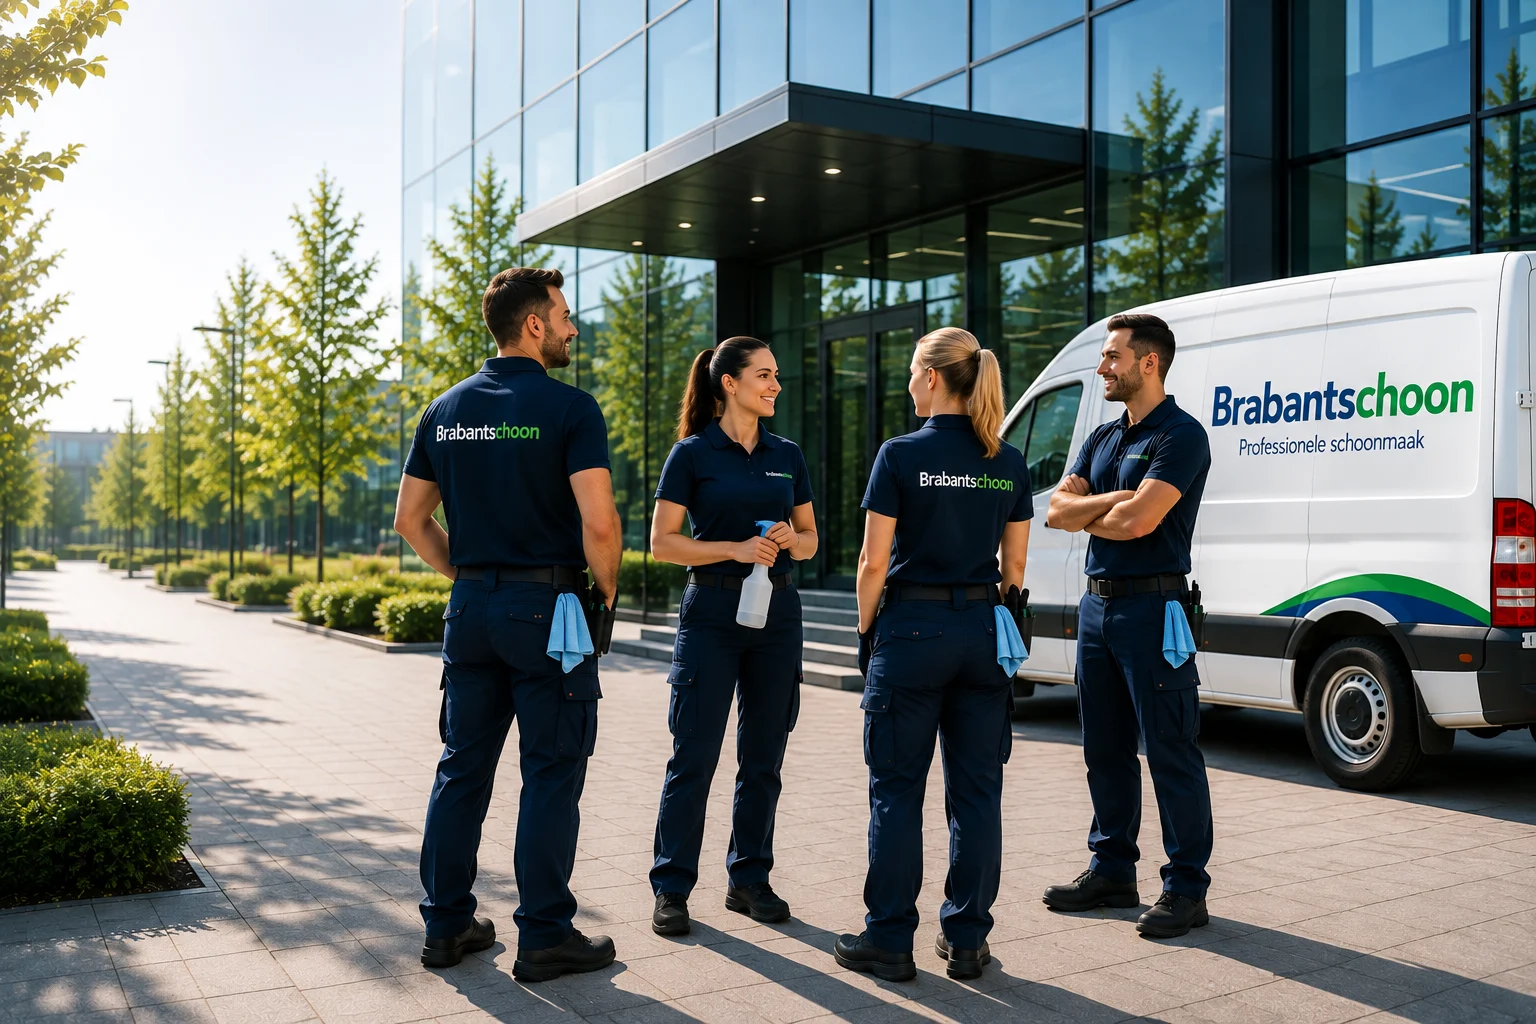
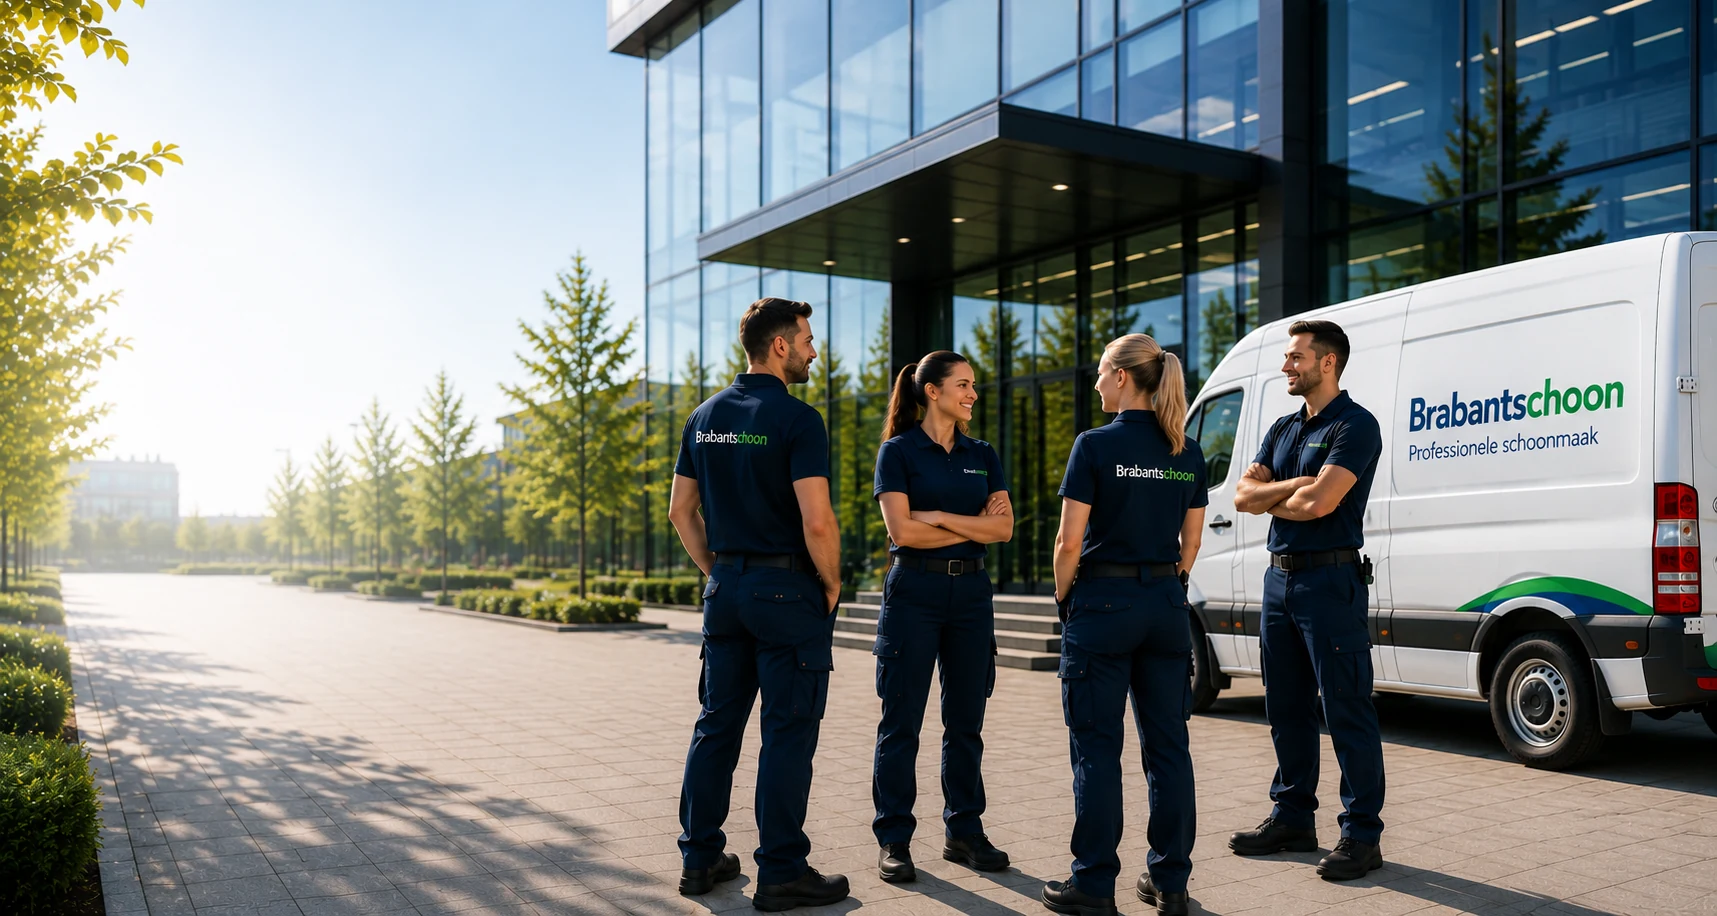
Add files via upload

diff --git a/css/styles.css b/css/styles.css
@@ -810,3 +810,105 @@ footer.site-footer{background:var(--bg-navy); color:var(--ink-on-navy); padding:
   .home-hero-actions{flex-direction:column; align-items:stretch; margin-top:27px;}
   .home-hero-actions .btn{width:100%;}
 }
+
+/* ===== Homepage hero — exact reference composition ===== */
+.home-page{padding-bottom:0;}
+.home-page .site-header{
+  position:absolute;
+  inset:0 0 auto 0;
+  z-index:120;
+  background:transparent;
+  border:0;
+  box-shadow:none;
+  backdrop-filter:none;
+}
+.home-page .nav{
+  min-height:100px;
+  max-width:1580px;
+  padding:18px 34px;
+}
+.home-page .logo img{height:42px;width:auto;}
+.home-page nav.links{gap:42px;font-size:16px;font-family:'League Spartan',sans-serif;font-weight:500;}
+.home-page nav.links>a{color:#10264a;text-shadow:0 1px 12px rgba(255,255,255,.25);}
+.home-page nav.links>a.active::after{transform:scaleX(0);}
+.home-page .phone-link{display:none;}
+.home-page .nav-actions>.btn{min-height:54px;padding:0 25px;border-radius:7px;font-size:16px;font-family:'League Spartan',sans-serif;background:#007A33;box-shadow:0 12px 28px -14px rgba(0,122,51,.7);}
+
+.home-hero{
+  position:relative;
+  isolation:isolate;
+  min-height:clamp(800px,100vh,940px);
+  overflow:hidden;
+  display:flex;
+  align-items:center;
+  background:#fff;
+}
+.home-hero-media{position:absolute;inset:0;z-index:-3;display:block;}
+.home-hero-media img{width:100%;height:100%;object-fit:cover;object-position:center center;}
+.home-hero-shade{
+  position:absolute;inset:0;z-index:-2;pointer-events:none;
+  background:linear-gradient(90deg,
+    rgba(255,255,255,1) 0%,
+    rgba(255,255,255,.99) 17%,
+    rgba(255,255,255,.96) 27%,
+    rgba(255,255,255,.82) 36%,
+    rgba(255,255,255,.48) 45%,
+    rgba(255,255,255,.14) 55%,
+    rgba(255,255,255,0) 65%);
+}
+.home-hero-inner{width:100%;max-width:1580px;padding:140px 34px 70px;}
+.home-hero-copy{width:min(510px,42vw);max-width:none;}
+.home-hero h1{
+  margin:0;
+  font-family:'League Spartan',sans-serif;
+  font-size:clamp(62px,5vw,86px);
+  line-height:.89;
+  letter-spacing:-.048em;
+  font-weight:700;
+  color:#002B5C;
+}
+.home-hero h1 span{color:#007A33;}
+.home-hero-copy>p{margin:26px 0 0;color:#18375e;font-size:22px;line-height:1.48;font-weight:400;max-width:430px;}
+.home-hero-rule{width:48px;height:3px;background:#007A33;margin:26px 0 27px;border-radius:3px;}
+.home-hero-services{display:flex;flex-direction:column;gap:12px;list-style:none;margin:0;max-width:420px;}
+.home-hero-services li{position:relative;padding-left:33px;color:#17345a;font-size:18px;line-height:1.4;font-weight:500;}
+.home-hero-services li::before{content:"✓";position:absolute;left:0;top:1px;width:20px;height:20px;border-radius:50%;display:grid;place-items:center;background:#007A33;color:#fff;font-size:12px;font-weight:800;}
+.home-hero-actions{margin-top:32px;}
+.home-hero-actions .btn{min-height:54px;padding:0 24px;border-radius:7px;font-family:'League Spartan',sans-serif;font-size:16px;font-weight:600;background:#007A33;box-shadow:none;}
+.home-hero-actions .btn:hover{background:#00672b;transform:translateY(-1px);}
+.home-hero-actions .btn span{font-size:24px;font-weight:400;margin-left:8px;line-height:1;}
+
+@media (max-width:1200px){
+  .home-page .nav{padding-inline:24px;}
+  .home-page nav.links{gap:22px;font-size:14px;}
+  .home-hero-inner{padding-inline:24px;}
+  .home-hero-copy{width:min(500px,48vw);}
+  .home-hero-media img{object-position:57% center;}
+}
+@media (max-width:899px){
+  .home-page .site-header{position:absolute;}
+  .home-page .nav{min-height:76px;padding:12px 20px;}
+  .home-page .logo img{height:32px;}
+  .home-page .nav-actions>.btn{display:none;}
+  .home-hero{min-height:820px;align-items:flex-start;}
+  .home-hero-inner{padding:116px 20px 300px;}
+  .home-hero-copy{width:min(560px,92vw);}
+  .home-hero h1{font-size:clamp(52px,11vw,72px);}
+  .home-hero-copy>p{font-size:19px;}
+  .home-hero-media img{object-position:64% center;}
+  .home-hero-shade{background:linear-gradient(180deg,rgba(255,255,255,.99) 0%,rgba(255,255,255,.96) 40%,rgba(255,255,255,.66) 59%,rgba(255,255,255,.10) 78%,transparent 92%);}
+}
+@media (max-width:600px){
+  .home-hero{min-height:790px;}
+  .home-hero-inner{padding:104px 18px 270px;}
+  .home-hero h1{font-size:52px;}
+  .home-hero-copy>p{font-size:17px;margin-top:20px;}
+  .home-hero-rule{margin:20px 0 21px;}
+  .home-hero-services{gap:9px;}
+  .home-hero-services li{font-size:15px;padding-left:28px;}
+  .home-hero-services li::before{width:18px;height:18px;font-size:11px;}
+  .home-hero-actions{margin-top:25px;}
+  .home-hero-actions .btn{width:auto;min-height:50px;font-size:15px;}
+  .desktop-only{display:none;}
+  .home-hero-media img{object-position:67% center;}
+}

diff --git a/index.html b/index.html
@@ -21,8 +21,8 @@
 <link rel="preconnect" href="https://fonts.googleapis.com">
 <link rel="preconnect" href="https://fonts.gstatic.com" crossorigin>
 <link rel="preload" as="image" href="images/hero-home.webp" type="image/webp" fetchpriority="high">
-<link rel="stylesheet" href="css/styles.css?v=200">
-<link href="https://fonts.googleapis.com/css2?family=League+Spartan:wght@500;600;700;800&family=Inter:wght@400;500;600;700&display=swap" rel="stylesheet">
+<link rel="stylesheet" href="css/styles.css?v=121">
+<link href="https://fonts.googleapis.com/css2?family=League+Spartan:wght@400;500;600;700;800&family=Inter:wght@400;500;600;700&display=swap" rel="stylesheet">
 <script type="application/ld+json">
 {
   "@context": "https://schema.org",
@@ -116,26 +116,26 @@
 </aside>
 <main id="main-content">
 
-  <section class="home-hero" aria-labelledby="hero-title">
+  <section class="home-hero" aria-labelledby="homeHeroTitle">
     <picture class="home-hero-media">
       <source srcset="images/hero-home.webp" type="image/webp">
-      <img src="images/hero-home.png" alt="Team van Brabantschoon bij de bedrijfswagen voor een modern bedrijfspand" width="1536" height="1024" fetchpriority="high" decoding="async">
+      <img src="images/hero-home.jpg" alt="Team van BrabantSchoon bij de bedrijfswagen voor een modern bedrijfspand" width="1717" height="916" fetchpriority="high" decoding="async">
     </picture>
     <div class="home-hero-shade" aria-hidden="true"></div>
     <div class="wrap home-hero-inner">
       <div class="home-hero-copy">
-        <span class="home-hero-kicker">Professionele schoonmaak voor bedrijven</span>
-        <h1 id="hero-title">Professionele schoonmaak<br><span>in Noord-Brabant</span></h1>
-        <p>Voor kantoren, VvE's, scholen en organisaties. Met vaste afspraken, korte lijnen en een team dat uw locatie kent.</p>
+        <h1 id="homeHeroTitle">Professionele<br><span>schoonmaak</span></h1>
+        <p>Voor een schone, frisse en gezonde<br class="desktop-only"> omgeving.</p>
+        <div class="home-hero-rule" aria-hidden="true"></div>
         <ul class="home-hero-services" aria-label="Onze belangrijkste diensten">
-          <li>Kantoorschoonmaak</li>
+          <li>Kantoren &amp; bedrijfspanden</li>
           <li>Glasbewassing</li>
-          <li>VvE &amp; trappenhuizen</li>
-          <li>Bouw- &amp; opleveringsschoonmaak</li>
+          <li>VvE schoonmaak</li>
+          <li>Gevelreiniging</li>
+          <li>Opleveringsschoonmaak</li>
         </ul>
         <div class="home-hero-actions">
-          <a href="contact.html#offerteWizard" class="btn btn-primary">Gratis offerte aanvragen</a>
-          <a href="#diensten" class="btn btn-hero-secondary">Bekijk onze diensten</a>
+          <a href="contact.html#offerteWizard" class="btn btn-primary">Offerte aanvragen <span aria-hidden="true">→</span></a>
         </div>
       </div>
     </div>
